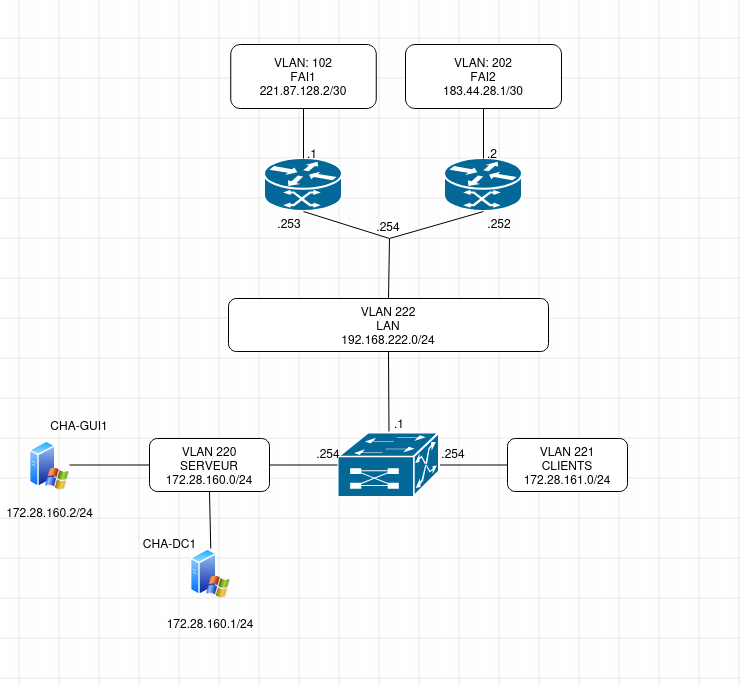
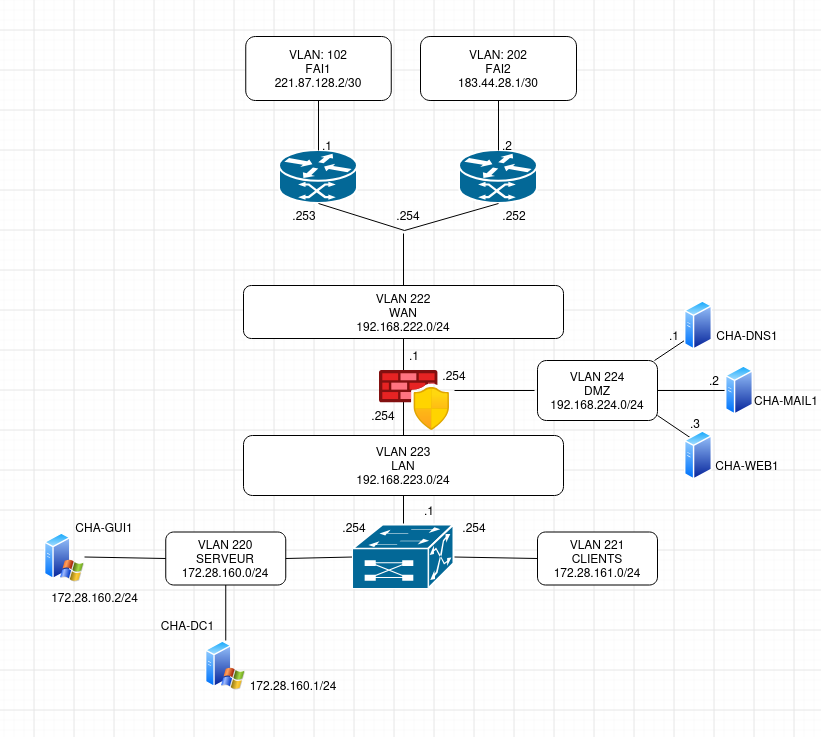
Deployed 7c9534f with MkDocs version: 1.6.1

diff --git a/documentation/index.html b/documentation/index.html
@@ -118,7 +118,41 @@
               <ul class="nav flex-column">
               </ul>
             </li>
+              </ul>
+            </li>
+            
+            <li class="nav-item" data-bs-level="1"><a href="#configuration-de-firewall" class="nav-link">Configuration de firewall</a>
+              <ul class="nav flex-column">
+            <li class="nav-item" data-bs-level="2"><a href="#mise-a-jour-du-firewall" class="nav-link">Mise a jour du firewall</a>
+              <ul class="nav flex-column">
+              </ul>
+            </li>
+            <li class="nav-item" data-bs-level="2"><a href="#mise-en-place-des-sous-interface" class="nav-link">Mise en place des sous interface</a>
+              <ul class="nav flex-column">
+              </ul>
+            </li>
+            <li class="nav-item" data-bs-level="2"><a href="#mise-en-place-des-routes" class="nav-link">Mise en place des routes</a>
+              <ul class="nav flex-column">
+              </ul>
+            </li>
+            <li class="nav-item" data-bs-level="2"><a href="#filtre-et-nat" class="nav-link">Filtre et NAT</a>
+              <ul class="nav flex-column">
+              </ul>
+            </li>
+            <li class="nav-item" data-bs-level="2"><a href="#modif-switch" class="nav-link">Modif switch</a>
+              <ul class="nav flex-column">
+              </ul>
+            </li>
+              </ul>
+            </li>
+            
+            <li class="nav-item" data-bs-level="1"><a href="#mise-en-place-des-serveurs" class="nav-link">Mise en place des serveurs</a>
+              <ul class="nav flex-column">
             <li class="nav-item" data-bs-level="2"><a href="#installation-du-dc1-gui1" class="nav-link">Installation du DC1 &amp; GUI1</a>
+              <ul class="nav flex-column">
+              </ul>
+            </li>
+            <li class="nav-item" data-bs-level="2"><a href="#configuration-de-gui1" class="nav-link">Configuration de GUI1</a>
               <ul class="nav flex-column">
               </ul>
             </li>
@@ -175,6 +209,7 @@ write memory
 <h2 id="mise-en-place-internet-sur-les-vlans">Mise en place internet sur les vlans</h2>
 <p>On mets la route par défaut pour le switch : <code>0.0.0.0 0.0.0.0 192.168.222.254</code></p>
 <p>On mets la route sur le routeur pour qu'il connaisse le VLAN 221: <code>172.28.161.0 255.255.255.0 192.168.222.1</code></p>
+<p><br></p>
 <h2 id="mise-en-place-du-2eme-routeur">Mise en place du 2eme Routeur</h2>
 <p>On met un deuxieme routeur pour assurer la disponibilité</p>
 <p>On copie la conf du premier routeur sur le deuxieme</p>
@@ -189,6 +224,34 @@ write memory
  standby 1 priority 100
  standby 1 preempt
 </code></pre>
+<h1 id="configuration-de-firewall">Configuration de firewall</h1>
+<p><br></p>
+<h2 id="mise-a-jour-du-firewall">Mise a jour du firewall</h2>
+<p>Mettre une date en 2025</p>
+<p>Redemarrer le firewall</p>
+<p>Installer le fichier de mise a jour</p>
+<p>Mettre le firewall a l'heure</p>
+<p><br></p>
+<h2 id="mise-en-place-des-sous-interface">Mise en place des sous interface</h2>
+<p>Nous avons mis les vlan mana et lan en sous interface dans l'interface in en 802.1Q</p>
+<h2 id="mise-en-place-des-routes">Mise en place des routes</h2>
+<p>Nous avons mis la route du reseau serveur pour qu'il puisse communiquer avec le firewall</p>
+<pre><code>Dest : Serveur
+Interface : lan
+Plan adressage : 172.28.160.0/24
+Passerelle : Pass-Serveur (192.168.223.1)
+</code></pre>
+<h2 id="filtre-et-nat">Filtre et NAT</h2>
+<p>Nous avons mis le firewall en pass all pour tester si tout fonctionne</p>
+<h2 id="modif-switch">Modif switch</h2>
+<p>On a rajouter les vlan 223 et 224</p>
+<p>Le port WAN et la DMZ sont en mode access</p>
+<p>Le port lan est en trunk pour faire passer le vlan Mana et Lan</p>
+<p>On a modifier la route par défaut</p>
+<p><br>
+<br></p>
+<h1 id="mise-en-place-des-serveurs">Mise en place des serveurs</h1>
+<p><br></p>
 <h2 id="installation-du-dc1-gui1">Installation du DC1 &amp; GUI1</h2>
 <p>Le DC1 sera en mode core et le gui sera une interface graphique.</p>
 <p>Pour la création des VMs les ressources sont les mêmes : 2 coeurs, 4go de RAM.</p>
@@ -201,7 +264,15 @@ CHA-GUI1 : 172.28.160.2/24</p>
 Install-ADDSForest -DomainName &quot;cha.chartres.sportludique.fr&quot; -DomainNetbiosName &quot;CHA&quot; -InstallDNS
 </code></pre>
 <p>Nous ajoutons un serveur local à gérer sur le serveur CHA-GUI1 et on ajoute CHA-DC1 à gérer.</p>
-<p>Des instatanées doivent être pris régulièrement pour nous permettre un retour en arrière.</p></div>
+<p>Des instatanées doivent être pris régulièrement pour nous permettre un retour en arrière.</p>
+<h2 id="configuration-de-gui1">Configuration de GUI1</h2>
+<p>Nous avons mis le GUI1 dans le VLAN serveur puis dans le domaine </p>
+<p>On a rajouter une interface dans le vlan MANA pour l'administrer depuis le mana</p>
+<h3 id="probleme">Probleme</h3>
+<p>Interface MANA n'arriver pas a ping la passerelle</p>
+<p>On a vus que sur le switch le port qui est relier au huawei sur le vlan MANA était broken</p>
+<p>Après 2 heure de recherche le prof a regler le probleme en retirent le spamming-tree sur le vlan MANA</p>
+<p>Le probleme peut etre lié au Huawei</p></div>
             </div>
         </div>
 

diff --git a/annexes/index.html b/annexes/index.html
@@ -89,6 +89,10 @@
               <ul class="nav flex-column">
               </ul>
             </li>
+            <li class="nav-item" data-bs-level="2"><a href="#schema-physique" class="nav-link">Schéma Physique</a>
+              <ul class="nav flex-column">
+              </ul>
+            </li>
             <li class="nav-item" data-bs-level="2"><a href="#plage-ip-site" class="nav-link">Plage IP Site</a>
               <ul class="nav flex-column">
               </ul>
@@ -115,6 +119,9 @@
 <p><br></p>
 <h2 id="schema-mana">Schéma Mana</h2>
 <p><img alt="Schéma Mana" src="../img/schema_mana.png" /> 
+<br></p>
+<h2 id="schema-physique">Schéma Physique</h2>
+<p><img alt="Schéma Physique" src="../img/schema_physique.png" />
 <br></p>
 <h2 id="plage-ip-site">Plage IP Site</h2>
 <table>
@@ -200,22 +207,22 @@
 <tr>
 <td style="text-align: center;">R1-CHA</td>
 <td style="text-align: center;">Gig0/1</td>
-<td style="text-align: center;">Trunk</td>
+<td style="text-align: center;">Trunk (MANA / WAN)</td>
 </tr>
 <tr>
 <td style="text-align: center;">R2-CHA</td>
 <td style="text-align: center;">Gig0/2</td>
-<td style="text-align: center;">Trunk</td>
+<td style="text-align: center;">Trunk (MANA / WAN)</td>
 </tr>
 <tr>
-<td style="text-align: center;"></td>
+<td style="text-align: center;">FW-WAN</td>
 <td style="text-align: center;">Gig0/3</td>
-<td style="text-align: center;"></td>
+<td style="text-align: center;">WAN</td>
 </tr>
 <tr>
-<td style="text-align: center;"></td>
+<td style="text-align: center;">FW-LAN</td>
 <td style="text-align: center;">Gig0/4</td>
-<td style="text-align: center;"></td>
+<td style="text-align: center;">Trunk (MANA / WAN)</td>
 </tr>
 <tr>
 <td style="text-align: center;"></td>
@@ -260,12 +267,12 @@
 <tr>
 <td style="text-align: center;"></td>
 <td style="text-align: center;">Gig0/13</td>
-<td style="text-align: center;"></td>
+<td style="text-align: center;">MANA</td>
 </tr>
 <tr>
 <td style="text-align: center;"></td>
 <td style="text-align: center;">Gig0/14</td>
-<td style="text-align: center;"></td>
+<td style="text-align: center;">MANA</td>
 </tr>
 <tr>
 <td style="text-align: center;"></td>
@@ -300,12 +307,12 @@
 <tr>
 <td style="text-align: center;"></td>
 <td style="text-align: center;">Gig0/21</td>
-<td style="text-align: center;"></td>
+<td style="text-align: center;">MANA</td>
 </tr>
 <tr>
 <td style="text-align: center;"></td>
 <td style="text-align: center;">Gig0/22</td>
-<td style="text-align: center;"></td>
+<td style="text-align: center;">MANA</td>
 </tr>
 <tr>
 <td style="text-align: center;"></td>
@@ -315,7 +322,7 @@
 <tr>
 <td style="text-align: center;"></td>
 <td style="text-align: center;">Gig0/24 </td>
-<td style="text-align: center;">MANA</td>
+<td style="text-align: center;">Trunk (MANA / Serveur)</td>
 </tr>
 <tr>
 <td style="text-align: center;"></td>

diff --git a/index.html b/index.html
@@ -175,5 +175,5 @@
 
 <!--
 MkDocs version : 1.6.1
-Build Date UTC : 2026-09-29 15:46:50.116803+00:00
+Build Date UTC : 2026-10-07 08:53:23.575651+00:00
 -->
